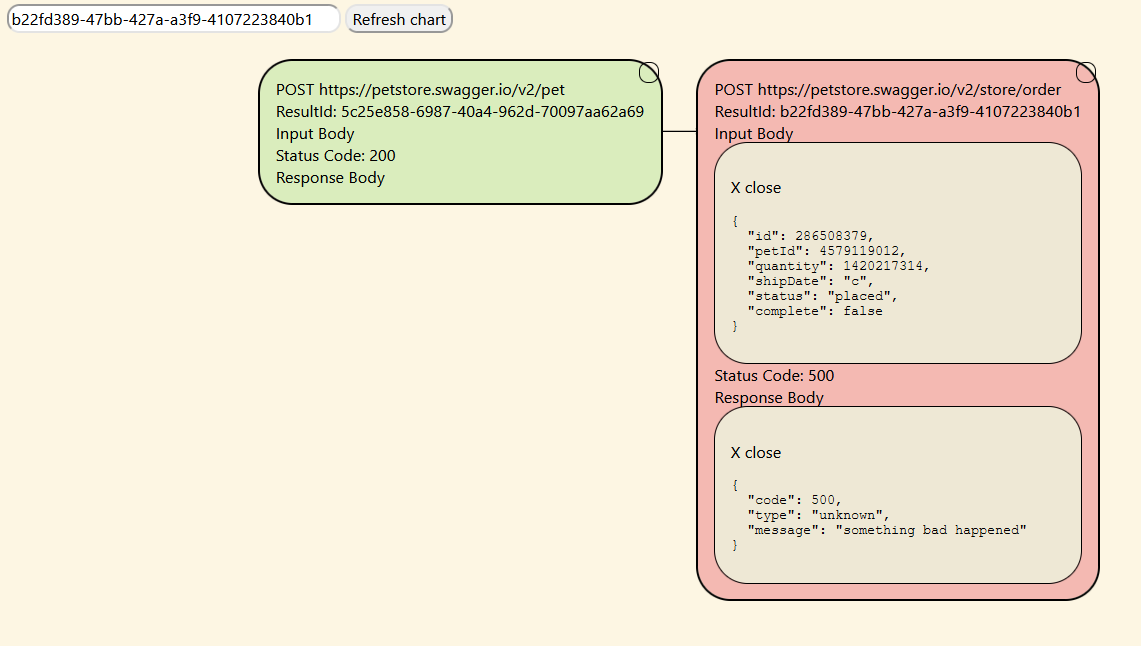
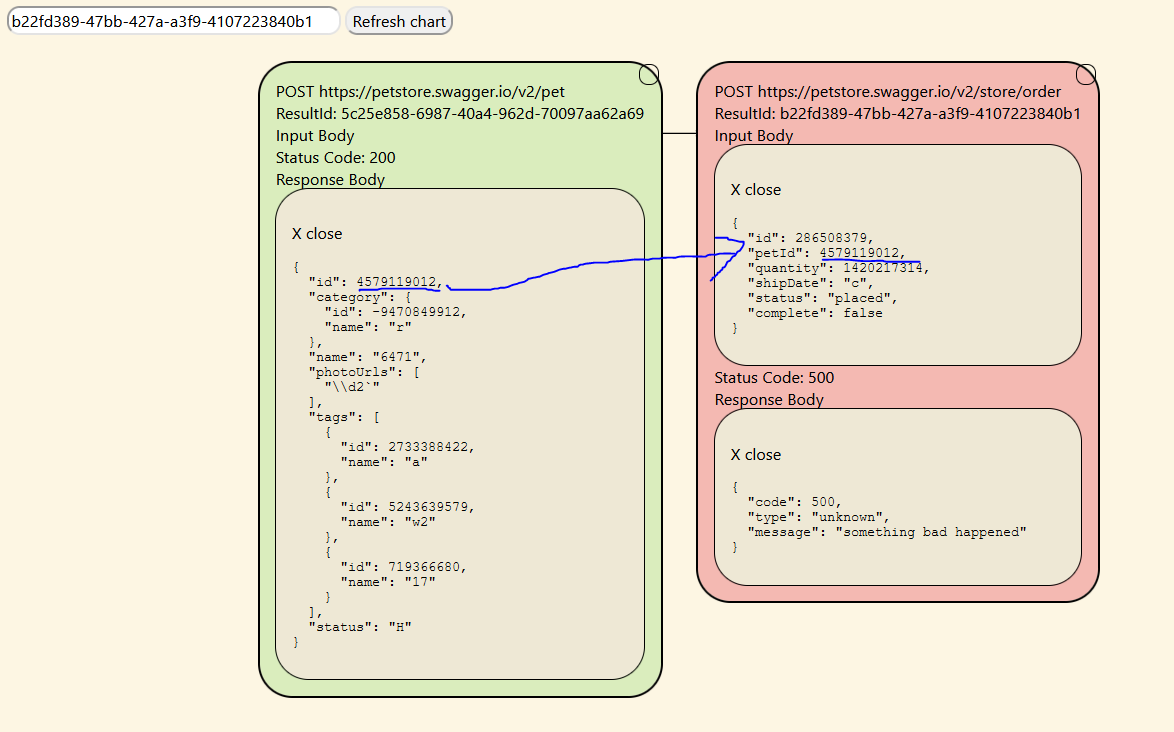
result updates

Changed region(s): [[0.0, 0.0, 0.9816, 0.9598]]

diff --git a/README.md b/README.md
@@ -50,7 +50,7 @@ Instead of flat tests on each API indepentently, Rest**Shape**r can test all API
 ```
 2) Use the `/status` API to retrieve the status of the current test. It will be either `IN_PROGRESS` or `DONE`.
    * When it is `DONE` it will also return a list of IDs as well as the URL and status code. Each entry in this list is a call that was made in the run. Use the `resultId` to look up details of the test. For example, you may want to investigate a 500 status code.
-3) Access the homepage in your browser and enter the result ID to view the results. Click the circle in the upper right to expand the call tree to see the full workflow that was run!
+3) Access the homepage in your browser and enter the result ID to view the results. Click the circle in the upper right to expand the call tree to see the full workflow that was run! Notice that it will resue the output from the linked APIs in the later APIs.
 
 ![Here is an exmaple report](./report-example.png)
 
